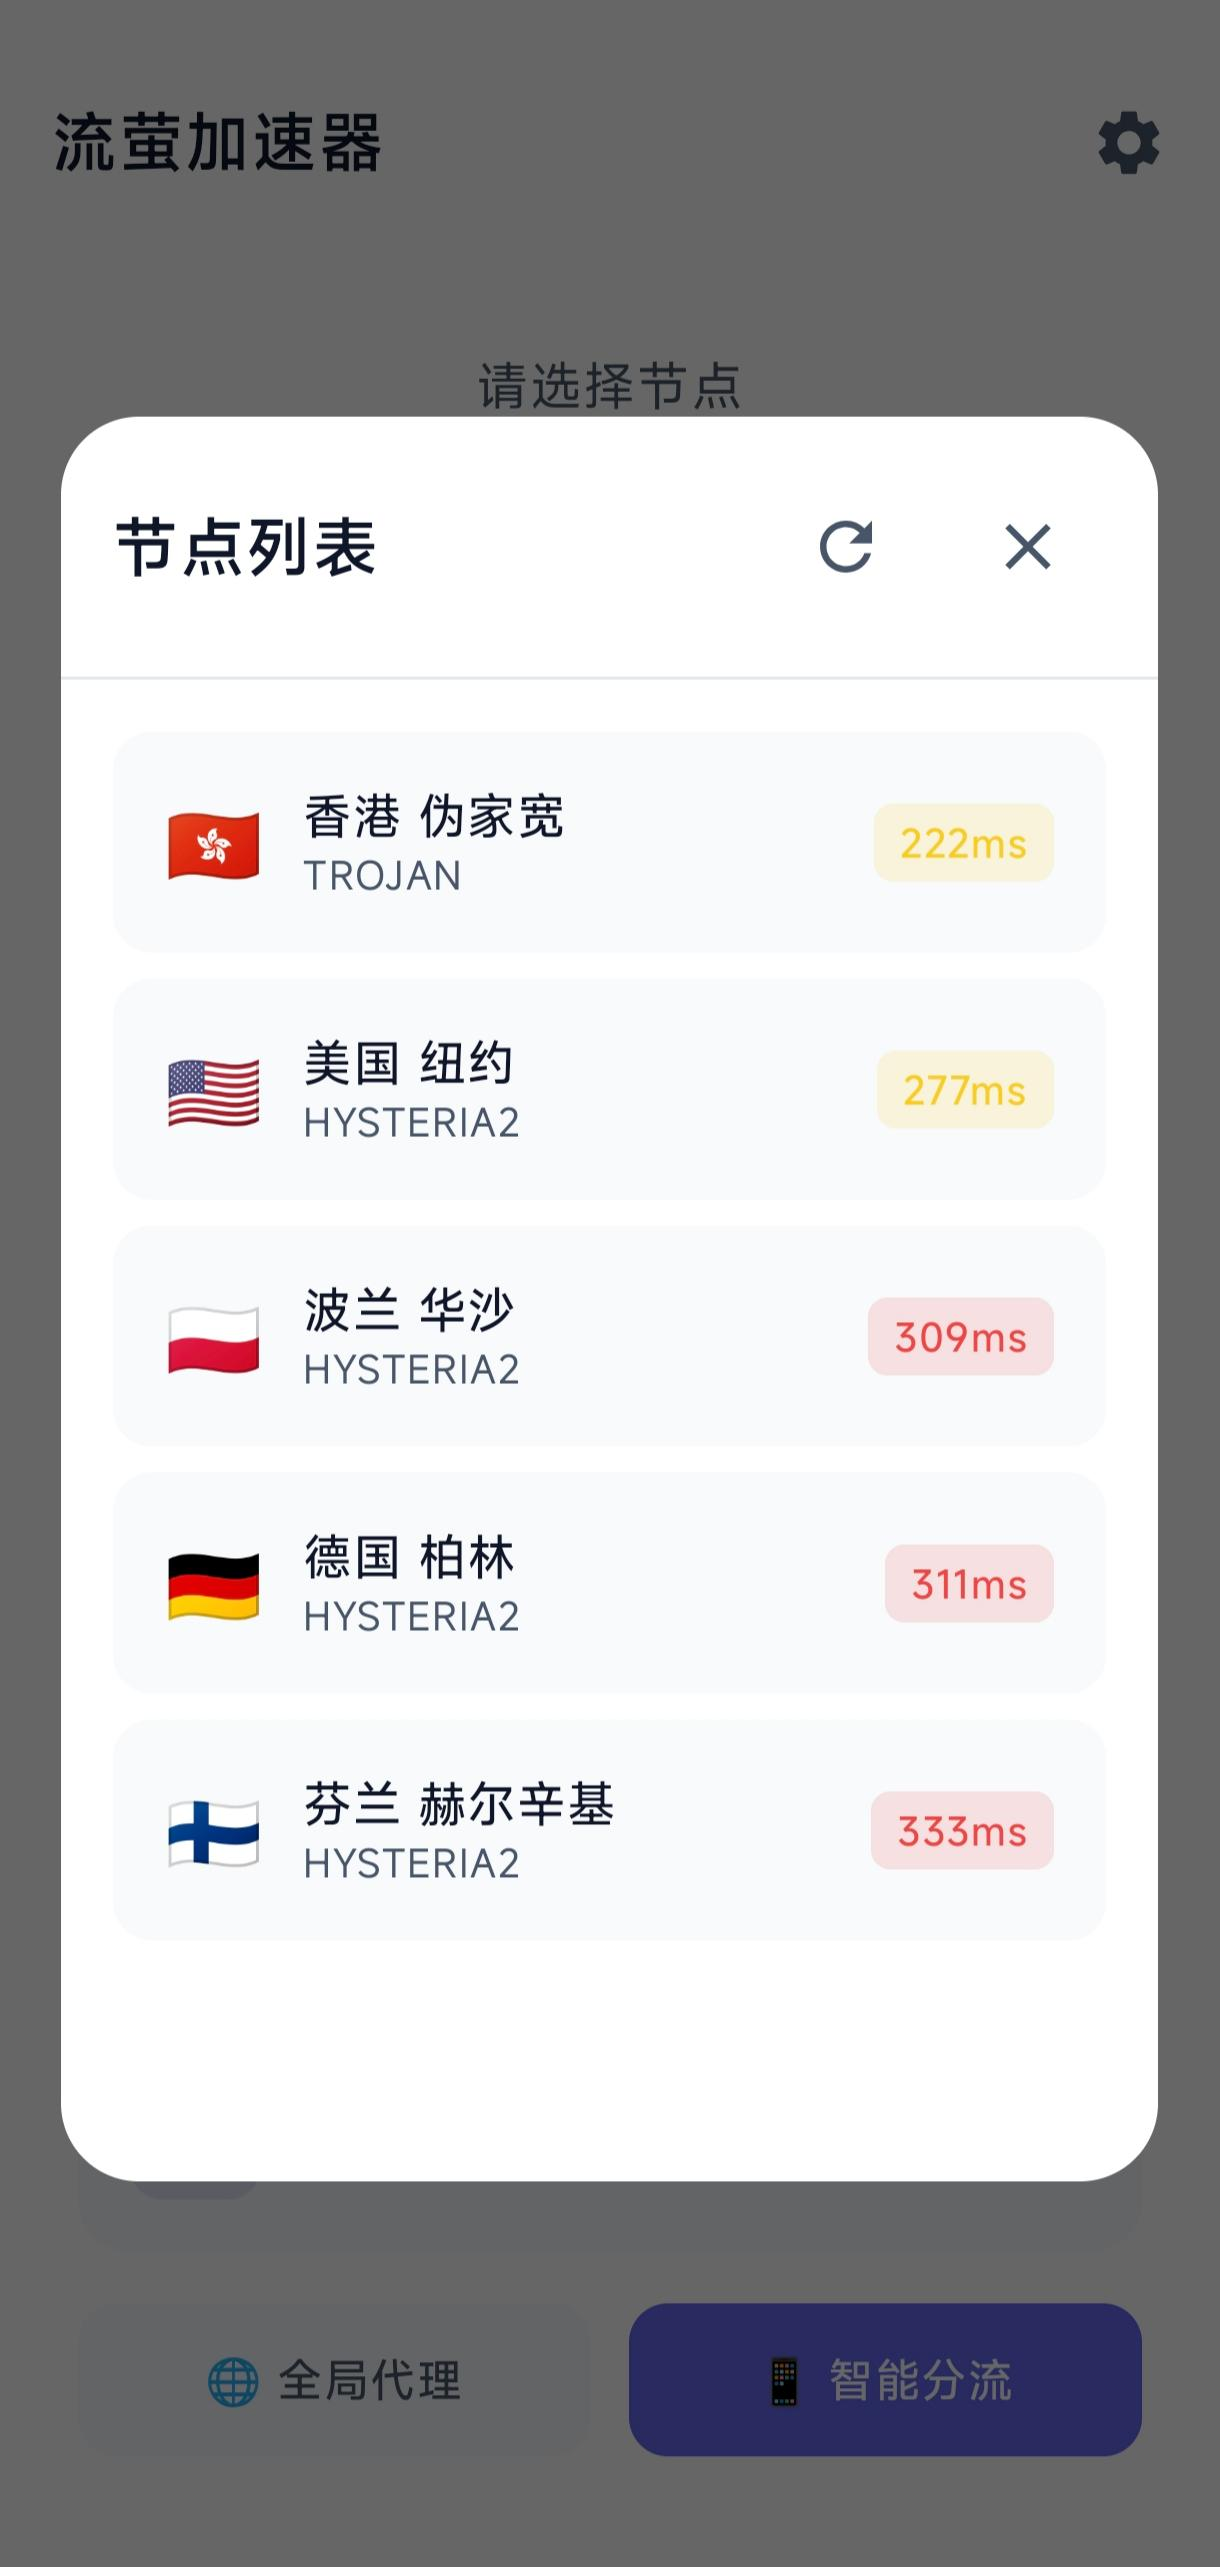
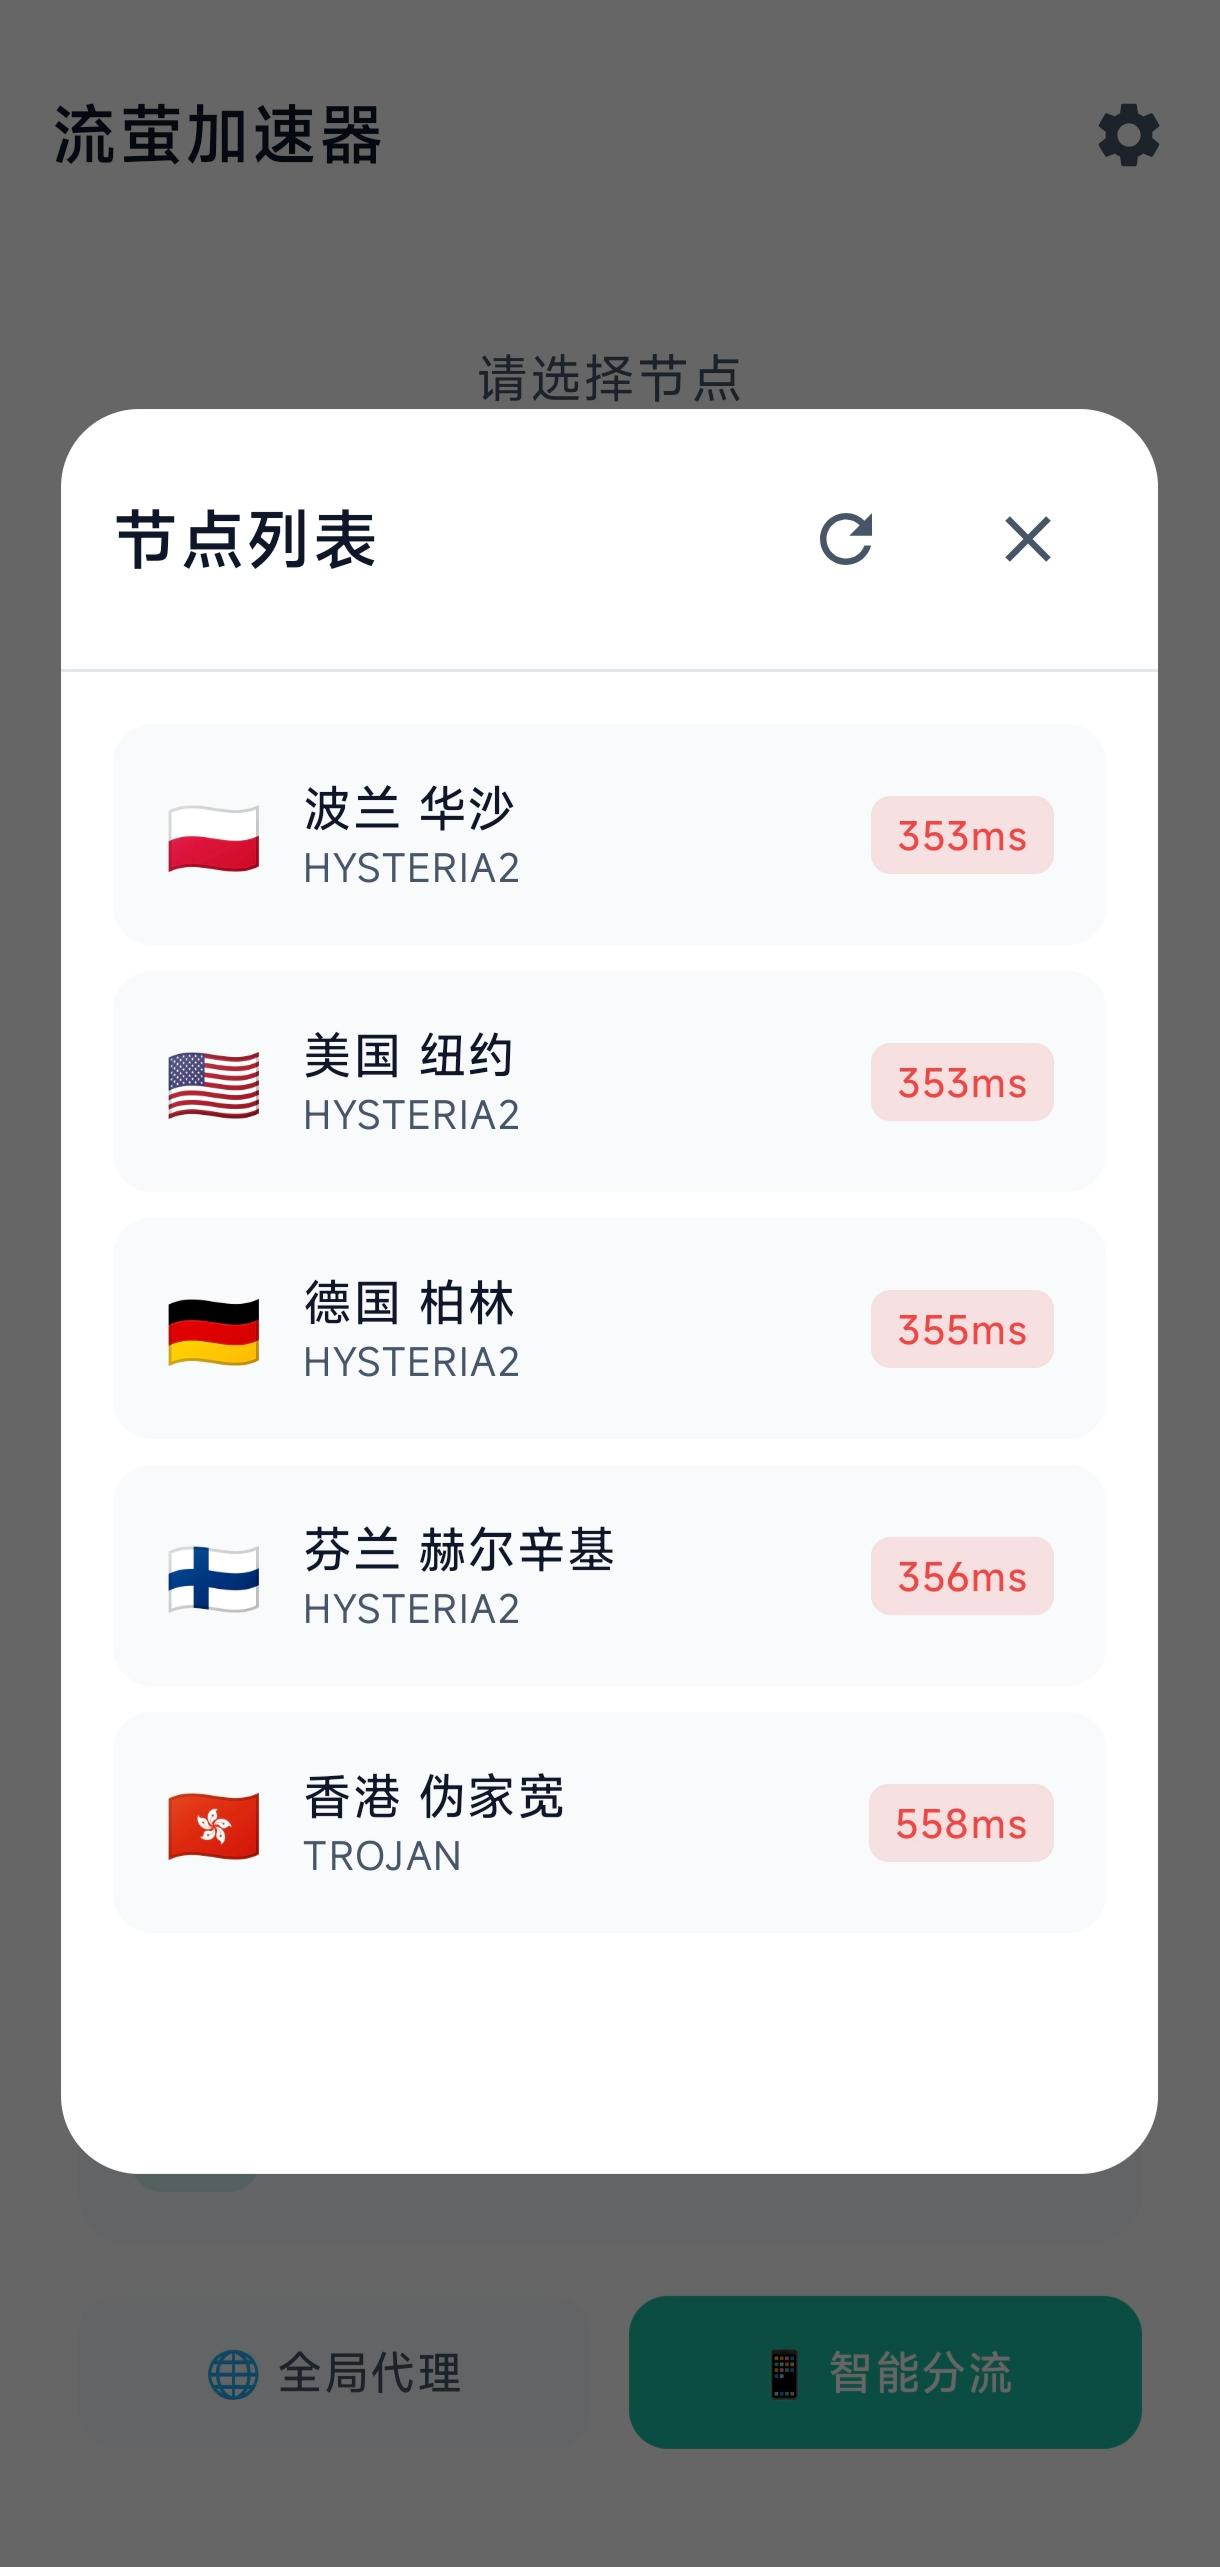
流萤加速器

diff --git a/app/src/main/java/xyz/a202132/app/ui/components/ConnectButton.kt b/app/src/main/java/xyz/a202132/app/ui/components/ConnectButton.kt
@@ -1,29 +1,22 @@
 package xyz.a202132.app.ui.components
 
-import androidx.compose.animation.animateColorAsState
 import androidx.compose.animation.core.*
-import androidx.compose.foundation.background
+import androidx.compose.animation.Crossfade
+import androidx.compose.foundation.Image
 import androidx.compose.foundation.clickable
 import androidx.compose.foundation.layout.*
-import androidx.compose.foundation.shape.CircleShape
-import androidx.compose.material.icons.Icons
-import androidx.compose.material.icons.filled.Power
-import androidx.compose.material.icons.filled.PowerSettingsNew
-import androidx.compose.material3.Icon
 import androidx.compose.material3.MaterialTheme
 import androidx.compose.material3.Text
 import androidx.compose.runtime.*
 import androidx.compose.ui.Alignment
 import androidx.compose.ui.Modifier
-import androidx.compose.ui.draw.clip
-import androidx.compose.ui.draw.shadow
-import androidx.compose.ui.graphics.Brush
-import androidx.compose.ui.graphics.Color
+import androidx.compose.ui.platform.LocalConfiguration
+import androidx.compose.ui.res.painterResource
 import androidx.compose.ui.text.font.FontWeight
 import androidx.compose.ui.unit.dp
 import androidx.compose.ui.unit.sp
+import xyz.a202132.app.R
 import xyz.a202132.app.data.model.VpnState
-import xyz.a202132.app.ui.theme.*
 
 @Composable
 fun ConnectButton(
@@ -33,96 +26,62 @@ fun ConnectButton(
     customLabel: String? = null
 ) {
     val isConnecting = vpnState == VpnState.CONNECTING || vpnState == VpnState.DISCONNECTING
-    val isConnected = vpnState == VpnState.CONNECTED
-    
-    // 动画颜色
-    val buttonColor by animateColorAsState(
-        targetValue = when (vpnState) {
-            VpnState.CONNECTED -> ConnectedGreen
-            VpnState.CONNECTING -> ConnectingYellow
-            VpnState.DISCONNECTING -> ConnectingYellow
-            VpnState.DISCONNECTED -> Primary
-        },
-        animationSpec = tween(300),
-        label = "buttonColor"
-    )
-    
-    val glowColor by animateColorAsState(
-        targetValue = when (vpnState) {
-            VpnState.CONNECTED -> ConnectedGreenGlow.copy(alpha = 0.3f)
-            VpnState.CONNECTING, VpnState.DISCONNECTING -> ConnectingYellow.copy(alpha = 0.3f)
-            VpnState.DISCONNECTED -> Primary.copy(alpha = 0.2f)
-        },
-        animationSpec = tween(300),
-        label = "glowColor"
-    )
-    
-    // 加载动画
+
+    // 自适应按钮大小：取屏幕宽度的 65%，但不超过 250dp
+    val configuration = LocalConfiguration.current
+    val buttonSize = minOf(250, (configuration.screenWidthDp * 0.65).toInt())
+
+    // 连接中的脉冲动画
     val infiniteTransition = rememberInfiniteTransition(label = "loading")
     val pulseScale by infiniteTransition.animateFloat(
         initialValue = 1f,
-        targetValue = 1.1f,
+        targetValue = 1.08f,
         animationSpec = infiniteRepeatable(
             animation = tween(800, easing = FastOutSlowInEasing),
             repeatMode = RepeatMode.Reverse
         ),
         label = "pulse"
     )
-    
+
     val scale = if (isConnecting) pulseScale else 1f
-    
+
+    // 根据状态选择图片
+    val imageRes = when (vpnState) {
+        VpnState.DISCONNECTED -> R.drawable.btn_disconnected
+        VpnState.CONNECTING, VpnState.DISCONNECTING -> R.drawable.btn_connecting
+        VpnState.CONNECTED -> R.drawable.btn_connected
+    }
+
     Column(
         horizontalAlignment = Alignment.CenterHorizontally,
         modifier = modifier
     ) {
-        // 外圈发光效果
-        Box(
-            contentAlignment = Alignment.Center,
-            modifier = Modifier
-                .size((140 * scale).dp)
-                .shadow(
-                    elevation = 20.dp,
-                    shape = CircleShape,
-                    ambientColor = glowColor,
-                    spotColor = glowColor
-                )
-                .background(
-                    brush = Brush.radialGradient(
-                        colors = listOf(
-                            glowColor,
-                            Color.Transparent
-                        )
-                    ),
-                    shape = CircleShape
-                )
-        ) {
-            // 主按钮
-            Box(
-                contentAlignment = Alignment.Center,
+        // 按钮图片 - 使用 Crossfade 实现平滑过渡，去除涟漪效果
+        Crossfade(
+            targetState = imageRes,
+            animationSpec = tween(400),
+            label = "buttonImage"
+        ) { currentImage ->
+            Image(
+                painter = painterResource(id = currentImage),
+                contentDescription = when (vpnState) {
+                    VpnState.CONNECTED -> "已连接"
+                    VpnState.CONNECTING -> "连接中"
+                    VpnState.DISCONNECTING -> "断开中"
+                    VpnState.DISCONNECTED -> "点击连接"
+                },
                 modifier = Modifier
-                    .size(120.dp)
-                    .clip(CircleShape)
-                    .background(
-                        brush = Brush.verticalGradient(
-                            colors = listOf(
-                                buttonColor,
-                                buttonColor.copy(alpha = 0.8f)
-                            )
-                        )
-                    )
-                    .clickable(enabled = !isConnecting) { onClick() }
-            ) {
-                Icon(
-                    imageVector = Icons.Default.PowerSettingsNew,
-                    contentDescription = "Connect",
-                    tint = Color.White,
-                    modifier = Modifier.size(56.dp)
-                )
-            }
+                    .size((buttonSize * scale).dp)
+                    .clickable(
+                        enabled = !isConnecting,
+                        indication = null,
+                        interactionSource = remember { androidx.compose.foundation.interaction.MutableInteractionSource() }
+                    ) { onClick() }
+            )
         }
-        
+
         Spacer(modifier = Modifier.height(16.dp))
-        
+
         // 状态文本
         Text(
             text = customLabel ?: when (vpnState) {

diff --git a/app/src/main/java/xyz/a202132/app/ui/theme/Color.kt b/app/src/main/java/xyz/a202132/app/ui/theme/Color.kt
@@ -2,12 +2,12 @@ package xyz.a202132.app.ui.theme
 
 import androidx.compose.ui.graphics.Color
 
-// Primary Colors - Gradient Blue/Purple Theme
-val Primary = Color(0xFF6366F1)
-val PrimaryVariant = Color(0xFF4F46E5)
-val PrimaryDark = Color(0xFF3730A3)
-val Secondary = Color(0xFF8B5CF6)
-val SecondaryVariant = Color(0xFF7C3AED)
+// Primary Colors - Cyan/Teal Theme (matching firefly images)
+val Primary = Color(0xFF00BFA5)          // 青绿主色
+val PrimaryVariant = Color(0xFF00897B)   // 深青绿
+val PrimaryDark = Color(0xFF00695C)      // 最深青绿
+val Secondary = Color(0xFF26C6DA)        // 亮青色
+val SecondaryVariant = Color(0xFF0097A7) // 深青色
 
 // Background Colors
 val BackgroundDark = Color(0xFF0F172A)
@@ -21,14 +21,14 @@ val TextSecondary = Color(0xFF94A3B8)
 val TextTertiary = Color(0xFF64748B)
 
 // Status Colors
-val ConnectedGreen = Color(0xFF22C55E)
-val ConnectedGreenGlow = Color(0xFF4ADE80)
+val ConnectedGreen = Color(0xFF00E676)
+val ConnectedGreenGlow = Color(0xFF69F0AE)
 val DisconnectedGray = Color(0xFF64748B)
 val ConnectingYellow = Color(0xFFFACC15)
 val ErrorRed = Color(0xFFEF4444)
 
 // Button Colors
-val ButtonActive = Color(0xFF6366F1)
+val ButtonActive = Color(0xFF00BFA5)     // 青绿
 val ButtonInactive = Color(0xFF475569)
 
 // Latency Colors
@@ -38,9 +38,9 @@ val LatencyBad = Color(0xFFEF4444)
 
 // Misc
 val Divider = Color(0xFF334155)
-val Ripple = Color(0x2A6366F1)
+val Ripple = Color(0x2A00BFA5)           // 青绿涟漪
 val AccentGreen = Color(0xFF10B981)
-val AccentBlue = Color(0xFF3B82F6)
+val AccentBlue = Color(0xFF26C6DA)       // 亮青色
 
 // Light Theme Colors
 val BackgroundLight = Color(0xFFFFFFFF)

diff --git a/README.md b/README.md
@@ -612,6 +612,132 @@ text = "流萤加速器"; 替换成你的应用名称
 
 ---
 
+### 修改 VPN 连接按钮
+
+当前连接按钮使用三张自定义图片表示不同状态：
+
+| 图片文件 | 状态 | 说明 |
+|---------|------|------|
+| `btn_disconnected.png` | 未连接 | 默认待机状态 |
+| `btn_connecting.png` | 连接中/断开中 | 带脉冲动画 |
+| `btn_connected.png` | 已连接 | VPN 已开启 |
+
+**图片位置**: `app/src/main/res/drawable/`
+
+#### 替换按钮图片
+
+将你的三张图片重命名为上述文件名，替换到 `drawable` 目录即可。
+
+> 💡 推荐使用 **透明背景的 PNG 图片**，尺寸建议 512×512 像素以上以保证清晰度。
+
+#### 恢复经典圆形按钮
+
+如果不想使用自定义图片，可以将 `ConnectButton.kt` 替换为经典的 Material Design 圆形电源按钮：
+
+```kotlin
+package xyz.a202132.app.ui.components
+
+import androidx.compose.animation.animateColorAsState
+import androidx.compose.animation.core.*
+import androidx.compose.foundation.background
+import androidx.compose.foundation.clickable
+import androidx.compose.foundation.layout.*
+import androidx.compose.foundation.shape.CircleShape
+import androidx.compose.material.icons.Icons
+import androidx.compose.material.icons.filled.PowerSettingsNew
+import androidx.compose.material3.Icon
+import androidx.compose.material3.MaterialTheme
+import androidx.compose.material3.Text
+import androidx.compose.runtime.*
+import androidx.compose.ui.Alignment
+import androidx.compose.ui.Modifier
+import androidx.compose.ui.draw.clip
+import androidx.compose.ui.draw.shadow
+import androidx.compose.ui.graphics.Brush
+import androidx.compose.ui.graphics.Color
+import androidx.compose.ui.text.font.FontWeight
+import androidx.compose.ui.unit.dp
+import androidx.compose.ui.unit.sp
+import xyz.a202132.app.data.model.VpnState
+import xyz.a202132.app.ui.theme.*
+
+@Composable
+fun ConnectButton(
+    vpnState: VpnState,
+    onClick: () -> Unit,
+    modifier: Modifier = Modifier,
+    customLabel: String? = null
+) {
+    val isConnecting = vpnState == VpnState.CONNECTING || vpnState == VpnState.DISCONNECTING
+    val buttonColor by animateColorAsState(
+        targetValue = when (vpnState) {
+            VpnState.CONNECTED -> ConnectedGreen
+            VpnState.CONNECTING, VpnState.DISCONNECTING -> ConnectingYellow
+            VpnState.DISCONNECTED -> Primary
+        },
+        animationSpec = tween(300), label = "buttonColor"
+    )
+    val glowColor by animateColorAsState(
+        targetValue = when (vpnState) {
+            VpnState.CONNECTED -> ConnectedGreenGlow.copy(alpha = 0.3f)
+            VpnState.CONNECTING, VpnState.DISCONNECTING -> ConnectingYellow.copy(alpha = 0.3f)
+            VpnState.DISCONNECTED -> Primary.copy(alpha = 0.2f)
+        },
+        animationSpec = tween(300), label = "glowColor"
+    )
+    val infiniteTransition = rememberInfiniteTransition(label = "loading")
+    val pulseScale by infiniteTransition.animateFloat(
+        initialValue = 1f, targetValue = 1.1f,
+        animationSpec = infiniteRepeatable(
+            animation = tween(800, easing = FastOutSlowInEasing),
+            repeatMode = RepeatMode.Reverse
+        ), label = "pulse"
+    )
+    val scale = if (isConnecting) pulseScale else 1f
+
+    Column(horizontalAlignment = Alignment.CenterHorizontally, modifier = modifier) {
+        Box(
+            contentAlignment = Alignment.Center,
+            modifier = Modifier
+                .size((140 * scale).dp)
+                .shadow(20.dp, CircleShape, ambientColor = glowColor, spotColor = glowColor)
+                .background(Brush.radialGradient(listOf(glowColor, Color.Transparent)), CircleShape)
+        ) {
+            Box(
+                contentAlignment = Alignment.Center,
+                modifier = Modifier
+                    .size(120.dp)
+                    .clip(CircleShape)
+                    .background(Brush.verticalGradient(listOf(buttonColor, buttonColor.copy(alpha = 0.8f))))
+                    .clickable(enabled = !isConnecting) { onClick() }
+            ) {
+                Icon(
+                    imageVector = Icons.Default.PowerSettingsNew,
+                    contentDescription = "Connect",
+                    tint = Color.White,
+                    modifier = Modifier.size(56.dp)
+                )
+            }
+        }
+        Spacer(modifier = Modifier.height(16.dp))
+        Text(
+            text = customLabel ?: when (vpnState) {
+                VpnState.CONNECTED -> "已连接"
+                VpnState.CONNECTING -> "连接中..."
+                VpnState.DISCONNECTING -> "断开中..."
+                VpnState.DISCONNECTED -> "点击连接"
+            },
+            color = MaterialTheme.colorScheme.onSurfaceVariant,
+            fontSize = 14.sp, fontWeight = FontWeight.Medium
+        )
+    }
+}
+```
+
+替换后可删除 `drawable` 目录中的 `btn_disconnected.png`、`btn_connecting.png`、`btn_connected.png`。
+
+---
+
 ### 修改应用图标
 
 **图标文件位置**:
